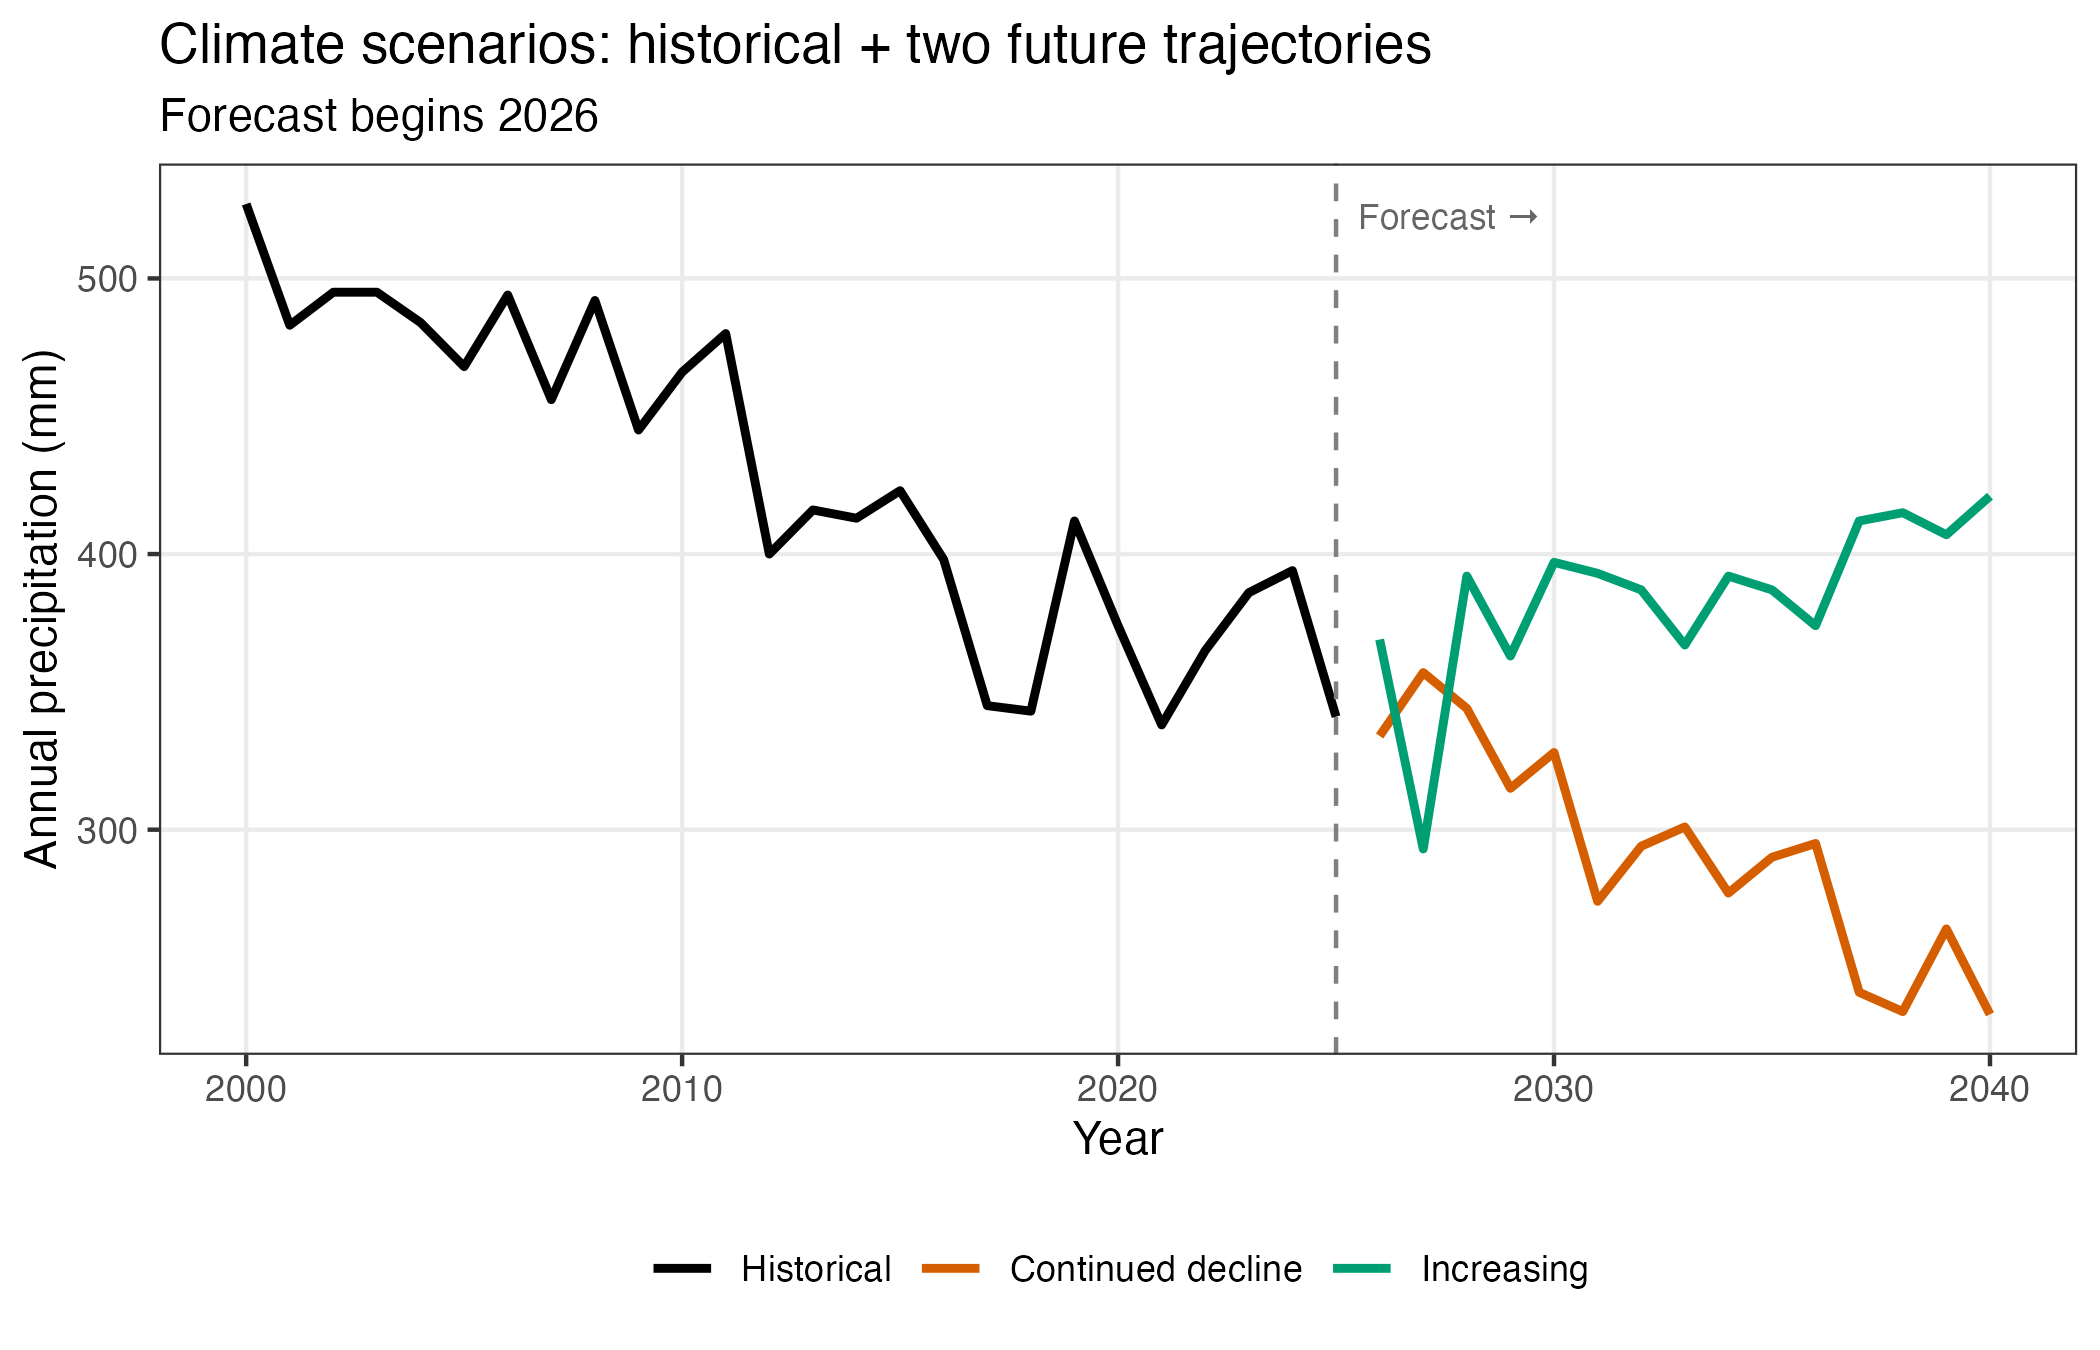
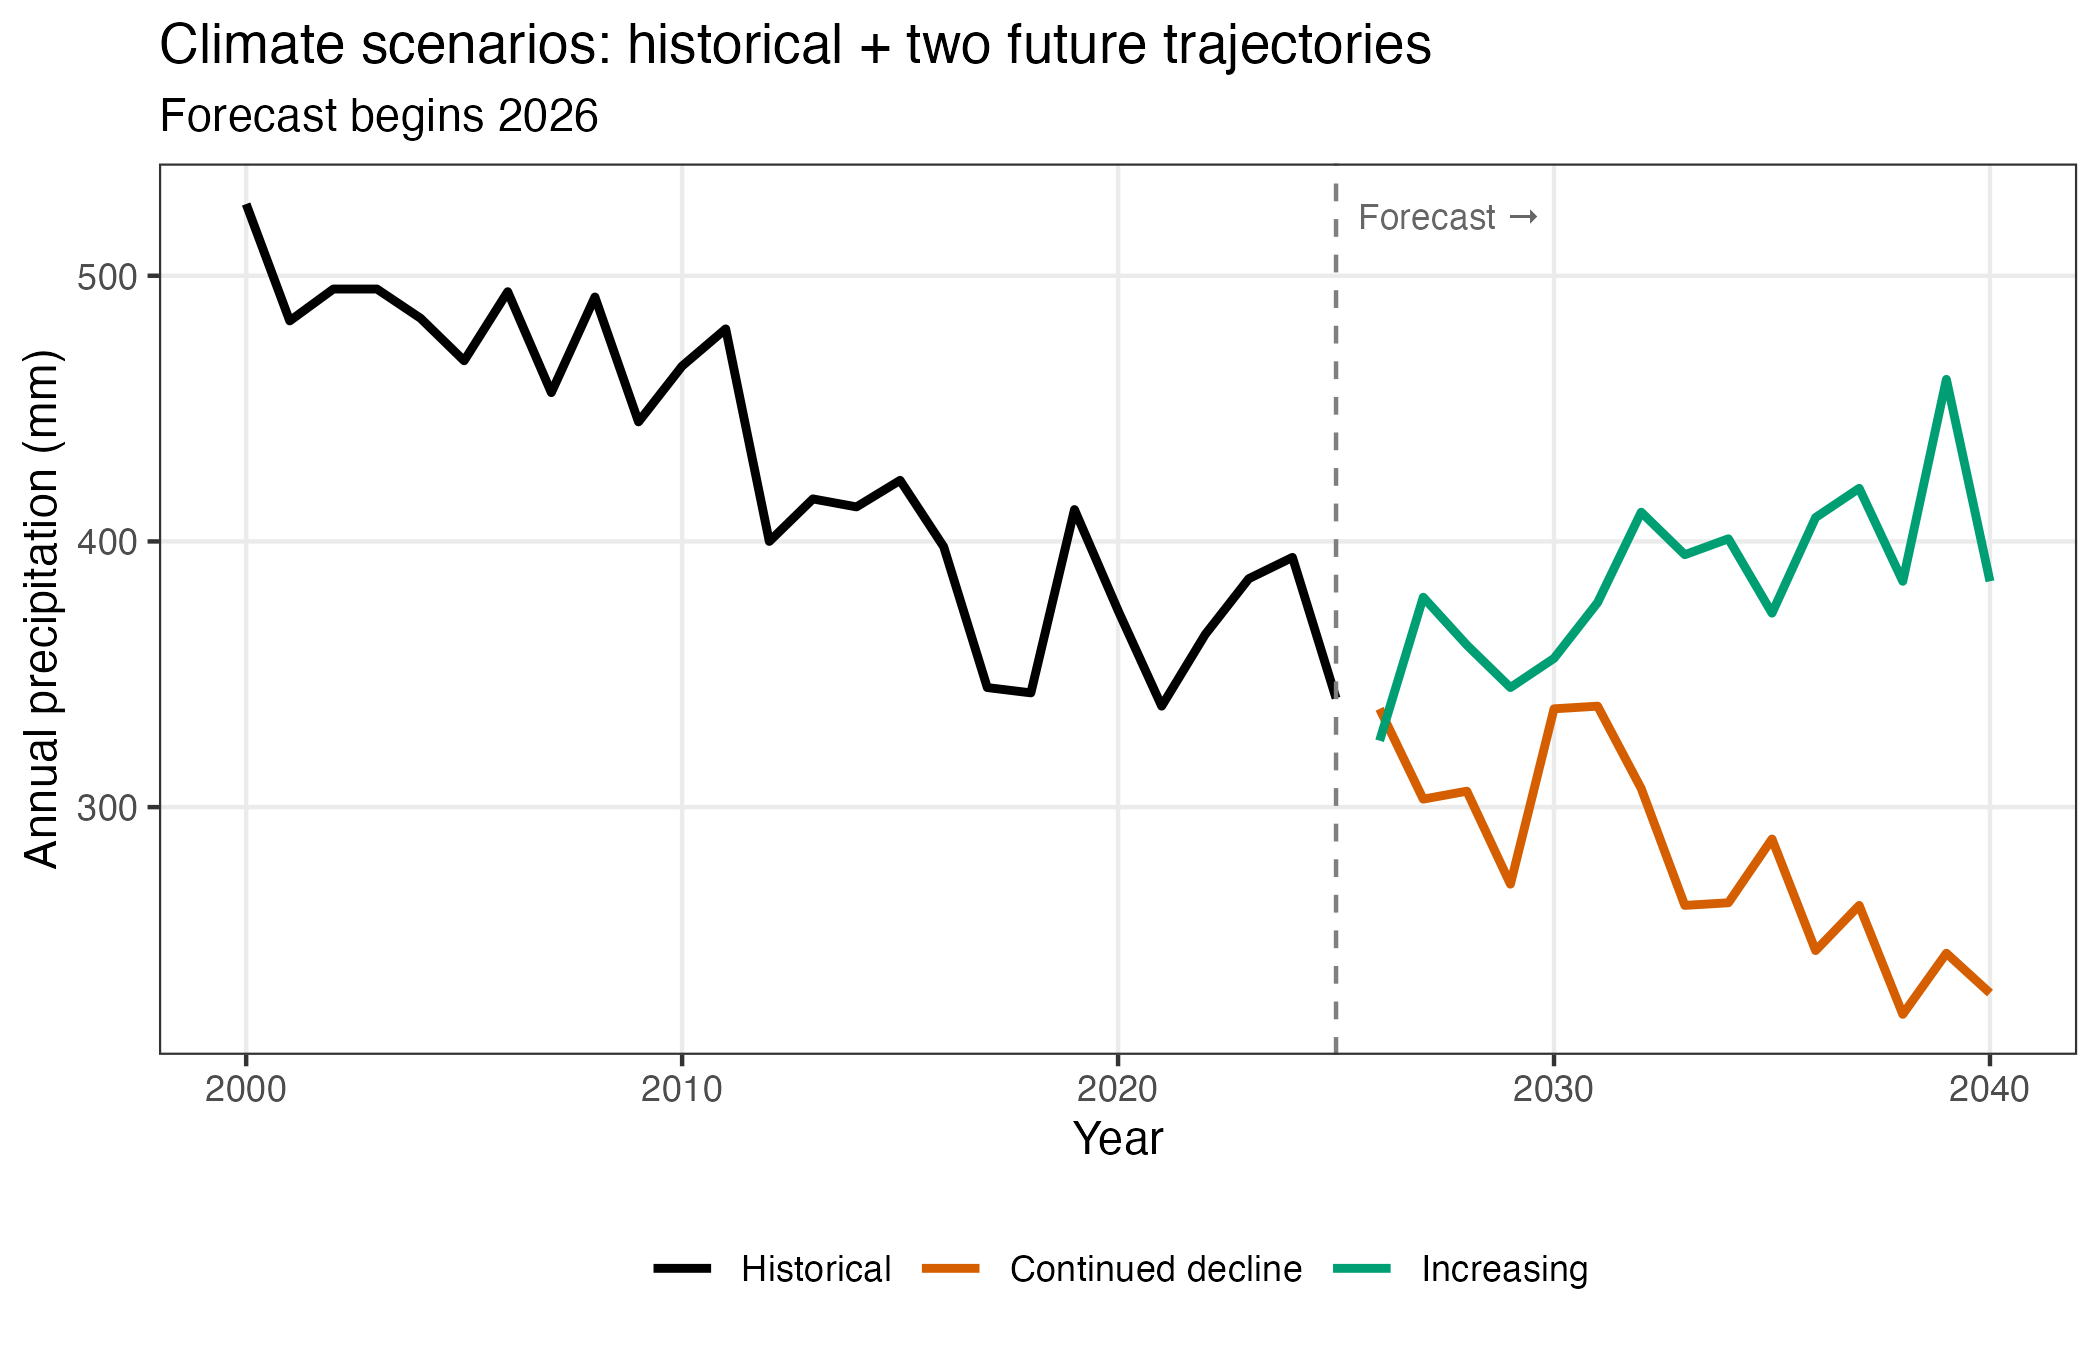
rough draft of mock data tutorial

diff --git a/docs/website/content/docs/5-forecasting/running/tutorials/mock-data/index.md b/docs/website/content/docs/5-forecasting/running/tutorials/mock-data/index.md
@@ -6,7 +6,7 @@ bookToc: true
 
 # Your First Forecast (Mock Data)
 
-This tutorial walks through a simple forecast run using synthetic data. By the end you will have fit a model to, used this model to forecast  under two climate scenarios, and explored the forecast's outputs.
+This tutorial walks through a simple forecast run using synthetic data. By the end you will have fit a model, used this model to forecast under two climate scenarios, and explored the forecast's outputs.
 
 ## Prerequisites
 
@@ -14,7 +14,7 @@ See [Getting started]({{< ref "/docs/0-getting-started/installation.md" >}}) if 
 
 ## Step 0: Understand the mock data
 
-This mock dataset represents a park unit (ELDO) with two vegetation strata (A and B), three sites per stratum, and one transect per site. The data is annual from 2000 to 2025. Each transect records how many of 100 sample points hit a plant (`y_hits` out of `n_points = 100`). A single climate covariate, precipitation (ppt), declines gradually over the training period and drives the vegetation response.
+This mock dataset represents a park unit (ELDO) with two vegetation strata (A and B), six sites per stratum, and one transect per site. The data is annual from 2000 to 2025. Each transect records how many of 100 sample points hit a plant (`y_hits` out of `n_points = 100`). A single climate covariate, precipitation (ppt), declines gradually over the training period and drives the vegetation response.
 
 There are three files, all pre-committed to `assets/_data/`:
 
@@ -28,7 +28,7 @@ There are three files, all pre-committed to `assets/_data/`:
 You don't need to generate the data — it's already in the repo. The script that created it is at `forecasting/getting-started/generate-mock-data.R` if you want to play around with generating alternative mock data.
 {{< /hint >}}
 
-### Trainingg observations (`pg-hits.csv`)
+### Training observations (`pg-hits.csv`)
 
 Each row is one transect in one year. The model fits to `y_hits` as a binomial outcome.
 
@@ -52,20 +52,20 @@ One precipitation value (mm) per site per year.
 
 ### Future scenarios (`pg-covariates-scenarios.csv`)
 
-Two climate trajectories (continued decline and increasing), each with one "GCM" model run covering 2026–2040.
+Two climate trajectories (dry and wet), each with one "GCM" model run covering 2026–2040.
 
 | scenario_id | scenario_name | model_run_id | model_run_name | park_unit | stratum | site | event_year | ppt |
 |-------------|---------------|--------------|----------------|-----------|---------|------|------------|-----|
-| 1 | continued_decline | 1 | Mock-GCM-1 | ELDO | A | A1 | 2026 | 384 |
-| 1 | continued_decline | 1 | Mock-GCM-1 | ELDO | A | A1 | 2027 | 330 |
-| 1 | continued_decline | 1 | Mock-GCM-1 | ELDO | A | A1 | 2028 | 319 |
+| 1 | dry | 1 | Mock-GCM-1 | ELDO | A | A1 | 2026 | 384 |
+| 1 | dry | 1 | Mock-GCM-1 | ELDO | A | A1 | 2027 | 330 |
+| 1 | dry | 1 | Mock-GCM-1 | ELDO | A | A1 | 2028 | 319 |
 | … | … | … | … | … | … | … | … |
 
 ### What the data looks like
 
 Vegetation hit rate tracks precipitation closely, with stratum A starting at a higher baseline (~75%) than stratum B (~45%). Both strata decline as precipitation falls.
 
-![Vegetation hit rate by stratum over time, with precipitation overlaid](01-training-hits.png)
+![Vegetation hit rate by stratum over time, with precipitation overlaid](01-stratum-hit-rates.png)
 
 The precipitation–vegetation relationship is what the model learns and uses to generate forecasts.
 
@@ -73,50 +73,97 @@ The precipitation–vegetation relationship is what the model learns and uses to
 <img src="02-hits-vs-ppt.png" alt="Hit rate vs. precipitation scatter plot" width="500">
 </div>
 
-The three future scenarios bracket the range of plausible climate outcomes. Each has three GCM model runs (small offsets representing ensemble spread).
+The future scenarios are represented by 1 GCM model each, covering two plausible climate futures.
 
 ![Climate scenarios: historical and three future trajectories](03-climate-scenarios.png)
 
 ## Step 1: Fit the Model
 
-Now that we understand the data, we can run the fitting pipeline to generate the model artifacts that the forecasting
-pipeline will read.
+Now that we understand the data, we can perform the model fitting. See [fitting a model for forecasting]({{< ref "/docs/5-forecasting/running/tutorials/climate-futures-data" >}}) for more details on this step. For our mock model, run:
 
-```bash
+```sh
 Rscript analysis-pipeline.R assets/_config/M4MD/ELDO/mock-cover.yml \
   --save-forecast-inputs
 ```
 
-<!-- TODO: Describe roughly how long this takes and what console output to expect.
-     Note that --save-forecast-inputs is the flag that writes the 04-forecast/
-     artifacts; without it the forecast pipeline has nothing to read. -->
+Two key configurations in the YAML:
 
-## Step 2: Inspect the Output (Recommended)
+```yaml
+# this allows us to capture the stratum-specific response to precipitation
+additional covariates:
+  - ppt, ppt*stratum
 
-Before forecasting, it is worth browsing the artifacts the fitting step wrote:
+... # other configs
 
+# this disables the linear time term in the model so our forecasts are
+# driven by precipitation only
+time effect: disabled
 ```
-assets/_output/M4MD/ELDO/mock-cover/<run-id>/04-forecast/forecast-inputs/
-```
 
-<!-- TODO: List the key files here (forecasting-metadata.rds, mcmc-draws-full.csv,
-     covariate-moments.rds) and give a one-sentence description of each so the
-     user understands what the forecast pipeline will read. -->
+## Step 2: Inspect the Output (optional)
+
+Before forecasting, it's worth checking the model output at `assets/_output/M4MD/ELDO/mock-cover/y-hits/binom_inv-logit_b0_hier-site/ppt_pptXstratum/`. You'll notice a `04-forecasting` folder containing posterior draws and model metadata — this is saved because of the `--save-forecast-inputs` flag we passed when fitting.
+
+If you'd like to evaluate the model, see [model diagnostics]({{< ref "/docs/1-guide/c-outputs/output-dir/01-diagnostics" >}}) and [model checking]({{< ref "/docs/1-guide/c-outputs/output-dir/02-checking" >}}). For example, the test statistics in `mod-summary.csv` and the convergence diagnostics in `convergence-diagnostics.txt` indicate a successful fit.
 
 ## Step 3: Run the Forecast
+
+Now we're ready to forecast. The config for this run is at `forecasting/getting-started/mock-forecast-config.yaml`. For more on the configuration options, see the [config files]({{< ref "/docs/5-forecasting/running/guide/config-files" >}}) section.
 
 ```bash
 Rscript forecasting/forecast/forecast-pipeline.R \
   --config forecasting/getting-started/mock-forecast-config.yaml
 ```
 
-<!-- TODO: Show expected console output (step-by-step log lines). -->
+<!-- TODO: update forecasting path when pipeline moves -->
 
 ## Reading Your Outputs
 
-<!-- TODO: Point to the reading-your-outputs page once it exists, or fold that
-     content here. Outputs land in assets/_output/.../04-forecast/forecasts/.
-     Describe the plots and the summary CSV at a high level. -->
+All forecast plots are written under the fitted model's output directory, inside a `04-forecast/` subfolder:
 
----
+```
+assets/_output/M4MD/ELDO/mock-cover/y-hits/.../04-forecast/
+├── diagnostics/
+│   └── diagnostics/              ← health-check plots
+└── runs/
+    ├── comparison/
+    │   └── comparison/           ← cross-scenario plots
+    ├── dry/
+    │   └── Mock-GCM-1/
+    │       └── forecasts/        ← per-run plots
+    └── wet/
+        └── Mock-GCM-1/
+            └── forecasts/        ← per-run plots
+```
 
+For a complete reference of every plot — what each panel shows, how to interpret uncertainty bands, and what to look for — see the [forecast outputs reference]({{< ref "/docs/5-forecasting/running/guide/outputs" >}}).
+
+### Scenario comparison
+
+We'll now investiate a couple specific plots the finish the tutorial.
+
+Our first stop is the parkwide ensemble trajectories. This shows us what our forecast expects the park average behavior under our two future scenarios to look like.
+
+![Park-wide ensemble trajectories under both scenarios](ensemble-trajectories-parkwide.png)
+
+The two scenarios visibly diverge from 2026 onward: `wet` tracks upward while `dry` continues the historical downward trend. This is the expected result — the model learned a positive precipitation–vegetation relationship during training, so higher future precipitation translates to higher forecast cover.
+
+The stratum-level comparison plots tell the same story split by stratum:
+
+![Ensemble trajectories for stratum A](ensemble-trajectories-stratum-A.png)
+
+![Ensemble trajectories for stratum B](ensemble-trajectories-stratum-B.png)
+
+### Stratum-level response differences
+
+Stratum A shows a wider gap between the two scenarios than stratum B. This is also expected. The driver–response scatter plot from training captures why:
+
+![Driver–response relationship by stratum](driver-response-relationship.png)
+
+Stratum A has a steeper ppt–cover slope historically — it occupies higher cover values at high precipitation and drops further when precipitation is low. Because the model fits a stratum-specific precipitation effect (via the `ppt*stratum` interaction term), it learns this stronger sensitivity and carries it into the forecast. The result is that the same change in precipitation produces a larger swing in predicted cover for stratum A than for B.
+
+The trend summary bar chart makes this concrete: the slope estimates for stratum A are more extreme in both directions (more negative under `dry`, more positive under `wet`) than those for stratum B.
+
+![Forecast trend summary by stratum and scenario](forecast-trend-summary.png)
+
+If you feel comfortable with this mock forecast, feel free to check out the [next tutorial]({{< ref "/docs/5-forecasting/running/tutorials/climate-futures-data" >}}).
